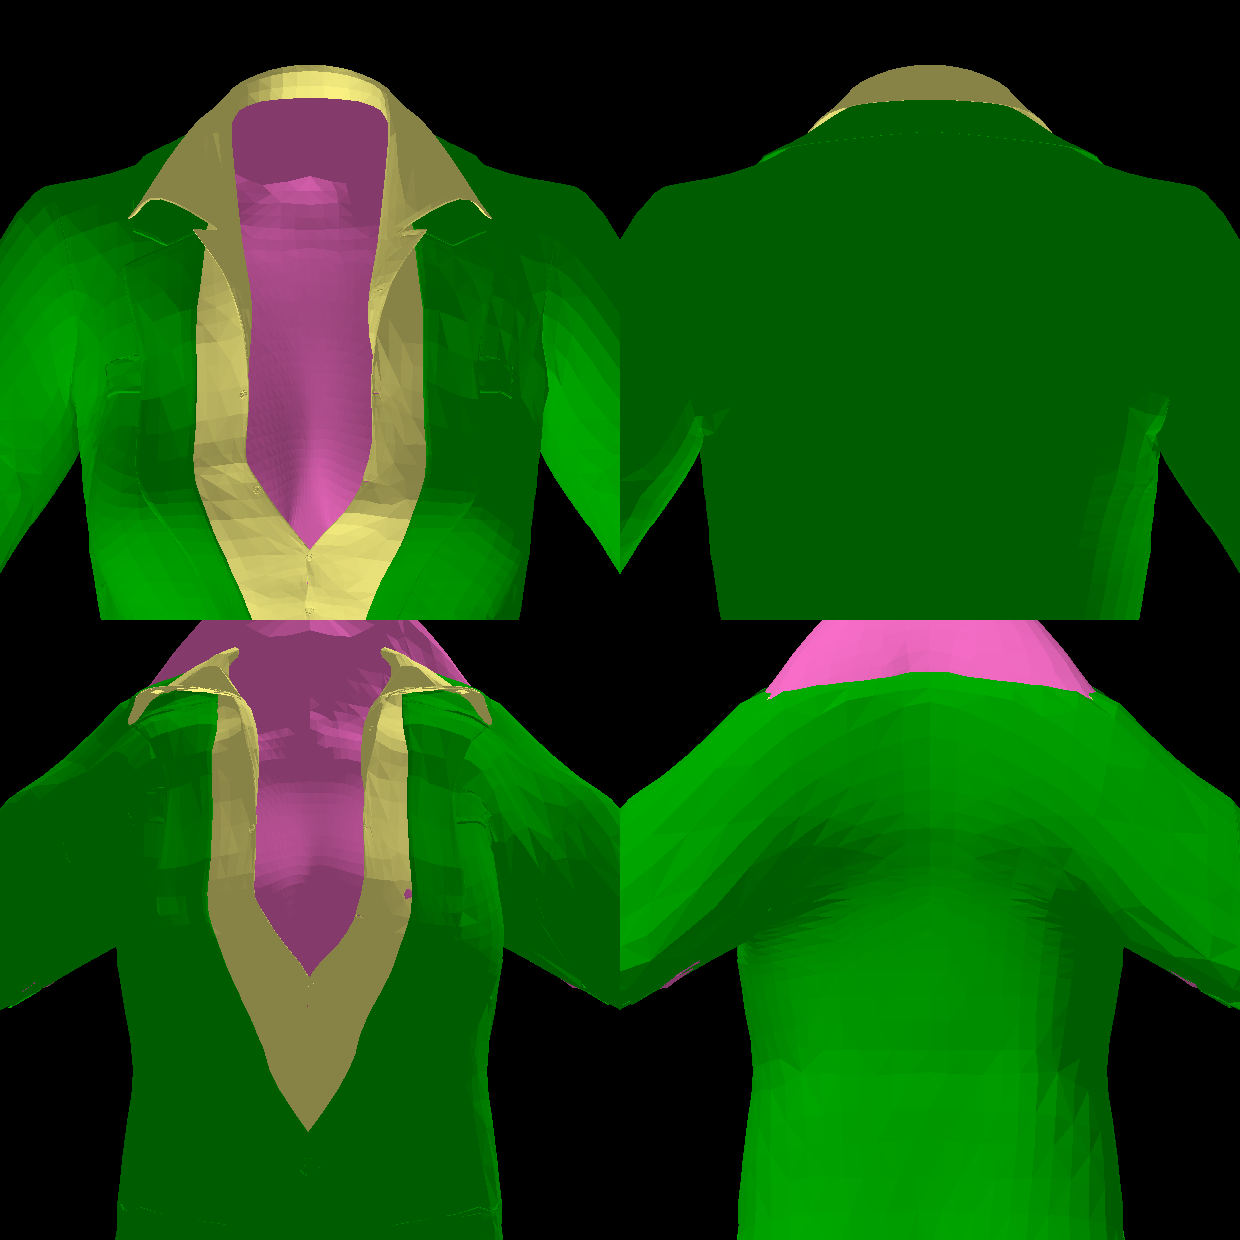
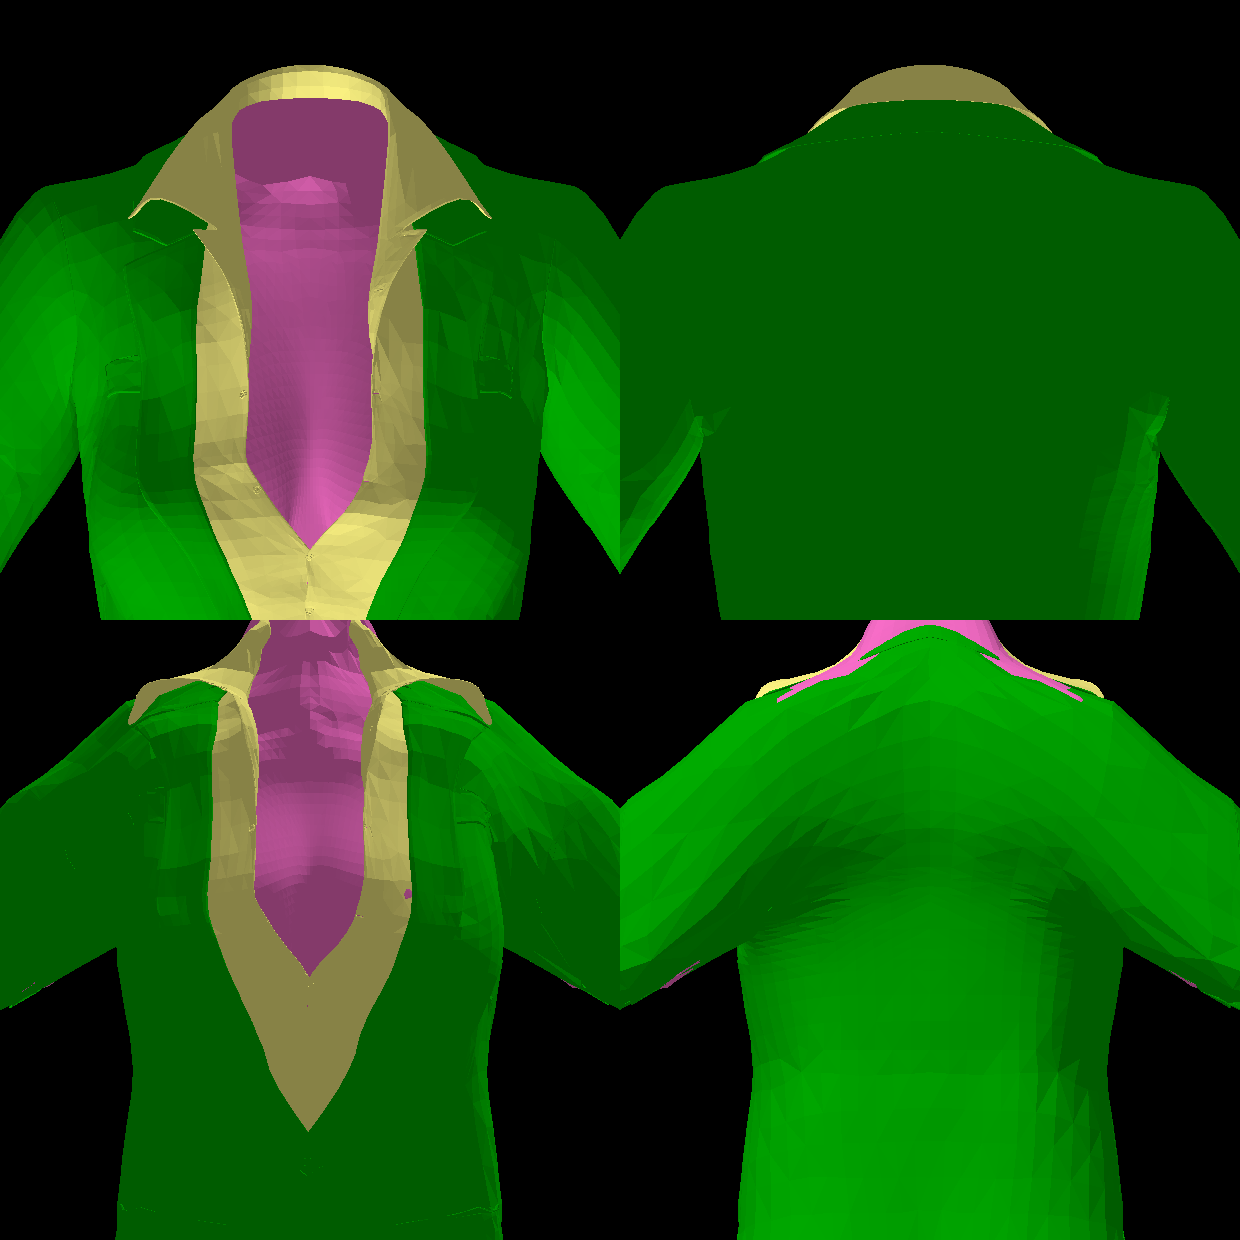
fix(skyrim): stop the neck reading as a stovepipe, hide the chain loop
Three neck defects, all measured against the PD2 reference body (the 2B
pack), which is the ground truth for this rig.

1. The port carried an 18.8 cm wide neck column from 160 cm up to 167.3:
   the 3BA neck stub, which Skyrim's head mesh used to cover and which the
   retarget's axial spine stretch keeps wide. 2B has a 9.4 cm neck there,
   ending at 163.2. slim_neck scales the column radially about the neck
   axis (full for r <= 8 cm, faded out by 14 so the trapezius is untouched,
   ramped in from z 157 to 161): 453 verts, peak 3.7 cm. Heights are left
   alone on purpose - the body's neck still has to reach the head joint.

2. lower_collar's k=0.35 squashed the collar from ~167 down to 161, i.e. a
   flange with 6 cm of bare neck above it. With the re-dress the collar
   belongs at the top of the neck, so COLLAR_K is 0.55: it now tops out at
   163.3 / 164.3, a standing collar 3 cm below the head joint.

3. The necklace's chain loop read as a gold hoop on the neck (and, before
   this, as gold tabs over the shoulders after the collar squash). The
   necklace is now re-dressed with the garment and no longer squashed by
   lower_collar, and tuck_necklace_chain sinks the part of the loop above
   z 156 to 0.8 of its radius, inside the neck: only the pendant and the
   chain in the open V remain visible, as on the source body.

Removed give_shoulder_room for good (never called since the re-dress).

tests/test_neck.py pins both passes. Zip regenerated:
[…]

Changed region(s): [[0.0919, 0.4903, 0.3984, 0.5823], [0.6129, 0.4903, 0.8887, 0.5823]]

diff --git a/tools/pd2-las/build_models.py b/tools/pd2-las/build_models.py
@@ -1862,25 +1862,57 @@ def tuck_shirt_collar(g: Group, mats=("jacket2",), z_lo: float = 150.0,
     return touched
 
 
-def give_shoulder_room(g: Group, mats=("jacket",), z_lo: float = 136.0,
-                       z_hi: float = 158.0, x_min: float = 10.0,
-                       x_full: float = 16.0, amount: float = 1.0,
-                       z_fade: float = 4.0) -> int:
-    """Push the blazer's shoulder band outwards, restoring the source clearance.
+def tuck_necklace_chain(g: Group, z_min: float = 156.0, scale: float = 0.80,
+                        axis=(0.0, 7.0)) -> int:
+    """Draw the necklace's chain loop inside the neck, where the collar hides it.
 
-    In the Skyrim source the blazer's shoulder line sits **1.2 cm above** the
-    3BA body's shoulder at every lateral band (measured: 110.41 vs 109.57,
-    103.44 vs 102.54, 92.26 vs 91.44 units). After the retarget only 0.2-0.5 cm
-    of that survives -- the body and the blazer are skinned to the same bones
-    but with different weights, so the axial spine stretch moved them by
-    slightly different amounts -- and the body's shoulder ends up *outside* the
-    jacket. Offline measurement (`build/poke_through.py`): 1724 skin vertices
-    outside the blazer, 687 of them in the z 140-150 shoulder band. In game
-    that is the bare shoulder plus the beige patches on the upper arm.
+    The chain is a closed loop that passes *around* the neck. On the PD2 head the
+    collar sits lower than the Skyrim one, so the loop rides over the collar's
+    top edge and reads as a gold hoop standing on the neck. Pulling the loop
+    inward (toward the neck axis, above ``z_min``) sinks it inside the neck
+    column, so only the pendant and the chain in the open V remain visible --
+    which is what the outfit looks like on the source body.
+    """
+    import math
 
-    Pushing the garment out along its own normals in the shoulder band gives the
-    blazer its clearance back (a tailor's shoulder pad, 1 cm thick) instead of
-    shaving the body down, which would flatten the deltoid.
+    ax, ay = axis
+    touched = 0
+    for mat, base_v, _bi, _tris, nverts in g.slices:
+        if mat != "necklace":
+            continue
+        for i in range(base_v, base_v + nverts):
+            x, y, z = g.verts[i]
+            if z <= z_min:
+                continue
+            g.verts[i] = (ax + (x - ax) * scale, ay + (y - ay) * scale, z)
+            touched += 1
+    return touched
+
+
+def slim_neck(g: Group, mats=("skin",), axis=(0.0, 7.0),
+              z_lo: float = 157.0, z_full: float = 161.0,
+              r_full: float = 8.0, r_stop: float = 14.0,
+              sx: float = 0.55, sy: float = 0.70) -> dict:
+    """Slim the neck to the PD2 reference, above the trapezius.
+
+    The 3BA body is authored for Skyrim, where the *head* mesh supplied most of
+    the neck: the source body stops at 157 cm with a 12 cm half-width there. The
+    retarget stretches the spine axially to PD2's longer torso, which also lifts
+    and widens that neck stub, so the shipped body carries an 18.8 cm wide
+    column up to 167 cm -- in the previews it reads as a stovepipe rising out of
+    the collar, and no collar can close over it.
+
+    The PD2 reference body (2B) is the ground truth for this rig: 16 cm
+    half-width at 157 cm, then a real neck -- 4.7 cm at 160, 4.8 at 162, top at
+    163.2. This pass narrows *only* the column: a radial scale about the neck
+    axis (``axis``), full for ``r <= r_full`` and fading out by ``r_stop`` so the
+    trapezius and the shoulder line are untouched, ramping in with height
+    (``z_lo`` -> ``z_full``) so there is no step at the shoulder.
+
+    Heights are deliberately left alone: the body's neck has to keep reaching
+    the PD2 head joint, and a short neck would open a gap under the jaw. The
+    garment is re-dressed afterwards (``redress_from_source``), so the collar
+    and the lapels come in onto the slimmer neck with it.
     """
     import math
 
@@ -1888,26 +1920,29 @@ def give_shoulder_room(g: Group, mats=("jacket",), z_lo: float = 136.0,
         t = max(0.0, min(1.0, t))
         return t * t * (3.0 - 2.0 * t)
 
+    ax, ay = axis
     touched = 0
-    for mat, base_v, _bi, _nt, nverts in g.slices:
+    moved = 0.0
+    for mat, base_v, _bi, _tris, nverts in g.slices:
         if mat not in mats:
             continue
         for i in range(base_v, base_v + nverts):
             x, y, z = g.verts[i]
-            if not (z_lo <= z <= z_hi) or abs(x) < x_min:
+            if z <= z_lo:
                 continue
-            fz = smooth((z - z_lo) / max(z_fade, 1e-6)) * \
-                smooth((z_hi - z) / max(z_fade, 1e-6))
-            fx = smooth((abs(x) - x_min) / max(x_full - x_min, 1e-6))
-            push = amount * fz * fx
-            if push <= 0.0:
+            r = math.hypot(x - ax, y - ay)
+            mask = smooth((r_stop - r) / max(r_stop - r_full, 1e-6))
+            t = smooth((z - z_lo) / max(z_full - z_lo, 1e-6)) * mask
+            if t <= 0.0:
                 continue
-            nx, ny, nz = g.normals[i]
-            ln = math.sqrt(nx * nx + ny * ny + nz * nz) or 1.0
-            g.verts[i] = (x + nx / ln * push, y + ny / ln * push,
-                          z + nz / ln * push)
+            kx = 1.0 - (1.0 - sx) * t
+            ky = 1.0 - (1.0 - sy) * t
+            nx = ax + (x - ax) * kx
+            ny = ay + (y - ay) * ky
+            moved = max(moved, math.hypot(nx - x, ny - y))
+            g.verts[i] = (nx, ny, z)
             touched += 1
-    return touched
+    return {"moved": touched, "peak": moved}
 
 
 def _slice_vertex_order(tris) -> list[int]:

diff --git a/tests/test_neck.py b/tests/test_neck.py
@@ -1,0 +1,92 @@
+"""Neck fixes: `slim_neck` and `tuck_necklace_chain`.
+
+Both are small, position-only passes aimed at the neck, which the PD2 rig makes
+look wrong: the retarget's axial spine stretch turns the 3BA neck stub into an
+18.8 cm wide column that no collar can close over, and the necklace's chain loop
+then rides over the collar's top edge as a gold hoop.
+"""
+from __future__ import annotations
+
+import sys
+from pathlib import Path
+
+REPO = Path(__file__).resolve().parents[1]
+sys.path.insert(0, str(REPO / "tools" / "pd2-las"))
+
+import build_models as bm  # noqa: E402
+
+AXIS = (0.0, 7.0)
+
+
+def _group(rows):
+    """A body Group with ``rows`` = [(material, [(x, y, z), ...]), ...]."""
+    g = bm.Group(name="body")
+    for mat, pts in rows:
+        base_v = len(g.verts)
+        g.verts.extend(pts)
+        g.uvs.extend([(0.0, 0.0)] * len(pts))
+        g.normals.extend([(0.0, 0.0, 1.0)] * len(pts))
+        g.weights.extend([[(0, 1.0)]] * len(pts))
+        g.slices.append((mat, base_v, len(g.faces) * 3, 0, len(pts)))
+    return g
+
+
+def test_slim_neck_narrows_only_the_column():
+    """Shoulder-line vertices (r > r_stop) and everything below z_lo stay put."""
+    g = _group([("skin", [
+        (0.0, 7.0, 150.0),      # below the band
+        (0.0, 7.0, 157.0),      # exactly at z_lo: untouched
+        (9.0, 7.0, 162.0),      # the neck column: narrowed
+        (20.0, 7.0, 162.0),     # trapezius, r = 20 > r_stop: untouched
+    ])])
+
+    rep = bm.slim_neck(g)
+
+    assert rep["moved"] == 1
+    assert g.verts[0] == (0.0, 7.0, 150.0)
+    assert g.verts[1] == (0.0, 7.0, 157.0)
+    assert 0.0 < g.verts[2][0] < 9.0            # pulled toward the axis
+    assert abs(g.verts[2][1] - 7.0) < 1e-9      # stays on the axis in y
+    assert abs(g.verts[2][2] - 162.0) < 1e-9    # heights are never touched
+    assert g.verts[3] == (20.0, 7.0, 162.0)
+
+
+def test_slim_neck_ramps_in_with_height():
+    """A vertex at the bottom of the ramp moves less than one at the top."""
+    g = _group([("skin", [(9.0, 7.0, 158.0), (9.0, 7.0, 162.0)])])
+
+    bm.slim_neck(g)
+
+    low = 9.0 - g.verts[0][0]
+    high = 9.0 - g.verts[1][0]
+    assert 0.0 < low < high
+
+
+def test_slim_neck_leaves_the_garment_alone():
+    """Only ``mats`` move: the collar is re-dressed separately, not scaled."""
+    g = _group([("skin", [(9.0, 7.0, 162.0)]),
+                ("jacket", [(9.0, 7.0, 162.0)])])
+
+    rep = bm.slim_neck(g)
+
+    assert rep["moved"] == 1
+    assert g.verts[1] == (9.0, 7.0, 162.0)
+
+
+def test_tuck_necklace_chain_sinks_only_the_loop():
+    """Above ``z_min`` the chain is drawn inside the neck; the pendant is not."""
+    g = _group([("necklace", [(6.0, 7.0, 150.0), (6.0, 7.0, 160.0)])])
+
+    n = bm.tuck_necklace_chain(g, scale=0.5)
+
+    assert n == 1
+    assert g.verts[0] == (6.0, 7.0, 150.0)          # chest chain: untouched
+    assert abs(g.verts[1][0] - 3.0) < 1e-9          # loop half the radius
+    assert abs(g.verts[1][2] - 160.0) < 1e-9
+
+
+def test_tuck_necklace_chain_ignores_other_materials():
+    g = _group([("skin", [(6.0, 7.0, 160.0)])])
+
+    assert bm.tuck_necklace_chain(g) == 0
+    assert g.verts[0] == (6.0, 7.0, 160.0)

diff --git a/tools/pd2-las/build_business_woman.py b/tools/pd2-las/build_business_woman.py
@@ -51,6 +51,8 @@ NECK_Z_CM = 155.0
 #: so the offline previews stay green while the game is broken).
 FPS_MATERIALS = ("mtr_body", "mtr_hands", "mtr_jacket", "mtr_jacket2")
 UNIT_BASE = "units/businesswoman/skins/businesswoman"
+#: How much of the standing collar survives `lower_collar` (see there).
+COLLAR_K = 0.55
 
 
 def model_materials(report: dict) -> list[str]:
@@ -339,6 +341,15 @@ def main(argv=None) -> int:
         n = bm.tuck_shirt_collar(groups[gname])
         print(f"[{gname}] shirt collar verts drawn inside the blazer: {n}")
 
+    # The retarget's axial spine stretch also lifts and widens the 3BA neck stub
+    # (18.8 cm wide at 160 cm; the PD2 reference body is 9.4 cm there), so the
+    # neck reads as a stovepipe rising out of the collar. Slim the column before
+    # the re-dress, which then brings the collar in onto it.
+    for gname in ("body", "shadow"):
+        rep = bm.slim_neck(groups[gname])
+        print(f"[{gname}] neck slimmed: {rep['moved']} verts, "
+              f"peak {rep['peak']:.1f} cm")
+
     # The retarget gets the body right but drags the garment's neckline out and
     # down over the trapezius (the blazer's neck opening flares from the neck
     # out to the sleeve), so the shoulders come out bare in game. Both models
@@ -347,7 +358,8 @@ def main(argv=None) -> int:
     # shoulder pad come back without touching the body. Must run before the
     # sleeve extension (which then reaches for the glove) and before turn_body.
     for gname in ("body", "shadow"):
-        rep = bm.redress_from_source(groups[gname], model)
+        rep = bm.redress_from_source(groups[gname], model,
+                                     mats=("jacket", "jacket2", "necklace"))
         print(f"[{gname}] garment re-dressed from the source: {rep['moved']} verts "
               f"(peak {rep['peak']:.1f} cm, body scale {rep['scale']:.3f})")
 
@@ -362,9 +374,19 @@ def main(argv=None) -> int:
         print(f"[{gname}] sleeves reach the glove: {rep['moved']} verts "
               f"{rep['materials']} (was -> target: {rep['reaches']})")
 
-    # The collar stands up past the head bone and swallows the jaw in profile.
+    # The chain loop rides over the collar's top edge on the PD2 head (it sits
+    # lower than Skyrim's); sink it inside the neck so only the pendant shows.
     for gname in ("body", "shadow"):
-        n = bm.lower_collar(groups[gname])
+        n = bm.tuck_necklace_chain(groups[gname])
+        print(f"[{gname}] necklace chain tucked inside the neck: {n} verts")
+
+    # The collar must clear the jaw but still stand on the neck: the source's
+    # stand collar tops out ~2 cm above the body's neck top, and the re-dress
+    # restores that, so keep most of the standing height (the earlier k=0.35
+    # flattened it onto the shoulders and left the neck bare).
+    for gname in ("body", "shadow"):
+        n = bm.lower_collar(groups[gname], mats=("jacket", "jacket2"),
+                            k=COLLAR_K)
         print(f"[{gname}] collar verts lowered: {n}")
 
     # The 3BA neck column stands ~2 cm forward of the PD2 head-neck axis. The

diff --git a/docs/skyrim-nif/FIXES-2026-11-04.md b/docs/skyrim-nif/FIXES-2026-11-04.md
@@ -240,3 +240,75 @@ skin that the design leaves open.
 2. Collar still clears the jaw in profile (`lower_collar` unchanged).
 3. White V still reads as the outfit's V, not collapsed.
 4. Sleeve/glove junction unchanged from the previous build.
+
+---
+
+# Round 3 — the neck (and the chain that came with it)
+
+The user: **"I see problems even in preview around the neck."** Correct — three
+of them, and the numbers say why.
+
+## 1. The neck was a stovepipe
+
+The PD2 reference body shipped by the 2B pack is the ground truth for this rig:
+
+| z (cm) | 2B reference body | this port's body |
+| --- | --- | --- |
+| 154 | ±19.8 | ±14.9 |
+| 157 | ±16.1 / ±15.3 | ±12.1 |
+| 160 | **±4.7** | ±9.4 |
+| 162 | ±4.8 | — |
+| 163 | ±4.1 (top at 163.2) | ±7.3 |
+| 166 | — | ±4.7 (top at 167.3) |
+
+So above the trapezius the port carried an **18.8 cm wide** column where the rig
+has a **9.4 cm** neck. That column is the 3BA *neck stub*: in Skyrim the head
+mesh supplied most of the neck and the body stops at 157 cm. The retarget's axial
+spine stretch lifts and keeps that stub wide, and no collar can close over it.
+
+`bm.slim_neck` narrows only the column: a radial scale about the neck axis
+(0, 7), full for r ≤ 8 cm and faded out by r = 14 cm so the trapezius and the
+shoulder line are untouched, ramped in from z 157 to 161 so there is no step.
+453 verts, peak 3.7 cm. Heights are deliberately **not** touched — the body's
+neck still has to reach the PD2 head joint (166.8), and shortening it would open
+a gap under the jaw in game.
+
+## 2. The collar was flattened onto the shoulders
+
+`lower_collar` (z 158, k 0.35) squashed everything above 158 toward it, which was
+right when the collar was landing at 169 cm over a normal neck, but with the
+re-dress the collar belongs at the top of the neck (~167 before the squash) and
+the squash dragged it back down to 161 — a flat flange with 6 cm of bare neck
+above it. `COLLAR_K` is now 0.55: the collar tops out at 163.3 / 164.3, i.e. a
+standing collar on the neck, 3 cm below the head joint.
+
+## 3. The necklace's chain loop
+
+The chain is a closed loop around the neck. With a slimmer neck and a
+higher collar it read as a **gold hoop standing on the neck**, and before the
+neck work its loop was distorted by `lower_collar` into gold tabs over the
+shoulders. Two changes:
+
+* the necklace is now re-dressed with the garment (`mats=(jacket, jacket2,
+  necklace)`), so it sits on the chest the way the source has it, and it is no
+  longer in `lower_collar`'s squashed materials;
+* `bm.tuck_necklace_chain` pulls the part of the loop above z 156 to 0.80 of its
+  radius about the neck axis, i.e. *inside* the neck column, where the body
+  hides it. Only the pendant and the chain in the open V stay visible — which is
+  what the outfit looks like on the source body.
+
+![neck, adducted 60°, textured](previews/business_woman_neck.png)
+
+`tests/test_neck.py` pins both passes (narrows the column only, ramps in with
+height, leaves other materials alone, sinks the loop only).
+
+Zip regenerated: `dist/BusinessWoman_LAS.zip` sha256
[1 lines of base64/hex data omitted]
+
+## Still on the list for the neck
+
+* The **shirt's stand collar** reads as a thin fin behind the neck in profile
+  (it stands off the neck rather than folding down). Next step if it bothers:
+  draw the back half of the shirt collar onto the neck the way
+  `tuck_shirt_collar` does at the front.
+* **Bust shape** is still the flattened 1.32× `restore_bust` silhouette.

diff --git a/docs/skyrim-nif/HANDOFF.md b/docs/skyrim-nif/HANDOFF.md
@@ -24,7 +24,7 @@ notes **28–39**. User-side game test: [`in-game-checklist.md`](in-game-checkli
 | | |
 |---|---|
 | Branch | `arena/68a9d94f-universal-modder` (active). **Remote head `f67f7de`.** |
[2 lines of base64/hex data omitted]
 | Hands | **adapter route** — no hand geometry shipped; build aborts if any vert is >0.5 hand-bone weighted (`count_hand_verts`) |
 | Head | none shipped; template `g_head`/`g_head_lod1` dropped; neck closed with `cap_holes` |
 | Body skin tone | matched to Miranda head diffuse: base `(172,134,106)`, unity gain; shipped `bw_body_df` median `(172,133,106)` |
@@ -91,9 +91,11 @@ Build is ~35 s (model) / ~80 s (`--pack`). **Commit + push early and often; NO P
 `transfer_group` (retarget) → hands adapter guard → `restore_bust`(1.32) →
 `tuck_underarm_skin`(0.7, z125–154) → `tuck_shirt_sleeves`(1.6) →
 `weld_open_seams`(0.2 mm) → `follow_layer_weights`(z136–158) →
-`tuck_shirt_collar`(z150, x0.93, z0.88) → **`redress_from_source`**(blazer +
-shirt, k=6 clearances, body scale 1.2574) → `extend_sleeves_to_wrist`(jacket −2.5 /
-skin −2.2 / shirt +1.0, t_knee 13) → `lower_collar`(z158, k0.35) → `turn_body`(0.8°) →
+`tuck_shirt_collar`(z150, x0.93, z0.88) → **`slim_neck`**(z157–161, r≤8 cm,
+x·0.55 y·0.70) → **`redress_from_source`**(blazer + shirt + necklace, k=6
+clearances, body scale ≈1.25) → `extend_sleeves_to_wrist`(jacket −2.5 / skin
+−2.2 / shirt +1.0, t_knee 13) → **`tuck_necklace_chain`**(z156, ×0.80) →
+`lower_collar`(z158, k=`COLLAR_K`=0.55, blazer + shirt only) → `turn_body`(0.8°) →
 `cap_holes`(min_z155, skin-only, max_span14) → `assemble_model(drop g_head/g_head_lod1)`
 → textures (`skin_texture`) → `bw_pack.write_pack` → zip. Body **and** shadow get every
 geometry pass. `extend_blazer_sleeves` and `tuck_shirt_cuffs` are **no longer called**
@@ -103,8 +105,9 @@ geometry pass. `extend_blazer_sleeves` and `tuck_shirt_cuffs` are **no longer ca
 the body right but drags the blazer's neckline out over the trapezius, and since
 the per-material vertex order is preserved it rebuilds every garment vertex on
 the shipped body at the *source's* clearance (mean 0.6/1.1 cm, peak 7.6 cm at
-the collar). `give_shoulder_room` was the earlier attempt and is gone — the
-fabric was not there to push. See `FIXES-2026-11-04.md`, "Round 2".
+the collar). The 3BA neck stub also has to be slimmed (`slim_neck`, 2B pack
+is the reference) and the collar kept standing (`COLLAR_K`) — see Round 3 of
+`FIXES-2026-11-04.md`. See `FIXES-2026-11-04.md`, "Round 2".
 
 Key helpers live in `tools/pd2-las/build_models.py` (grep by name; line numbers shift):
 `turn_body`, `weld_open_seams`, `follow_layer_weights`, `tuck_shirt_collar`,
